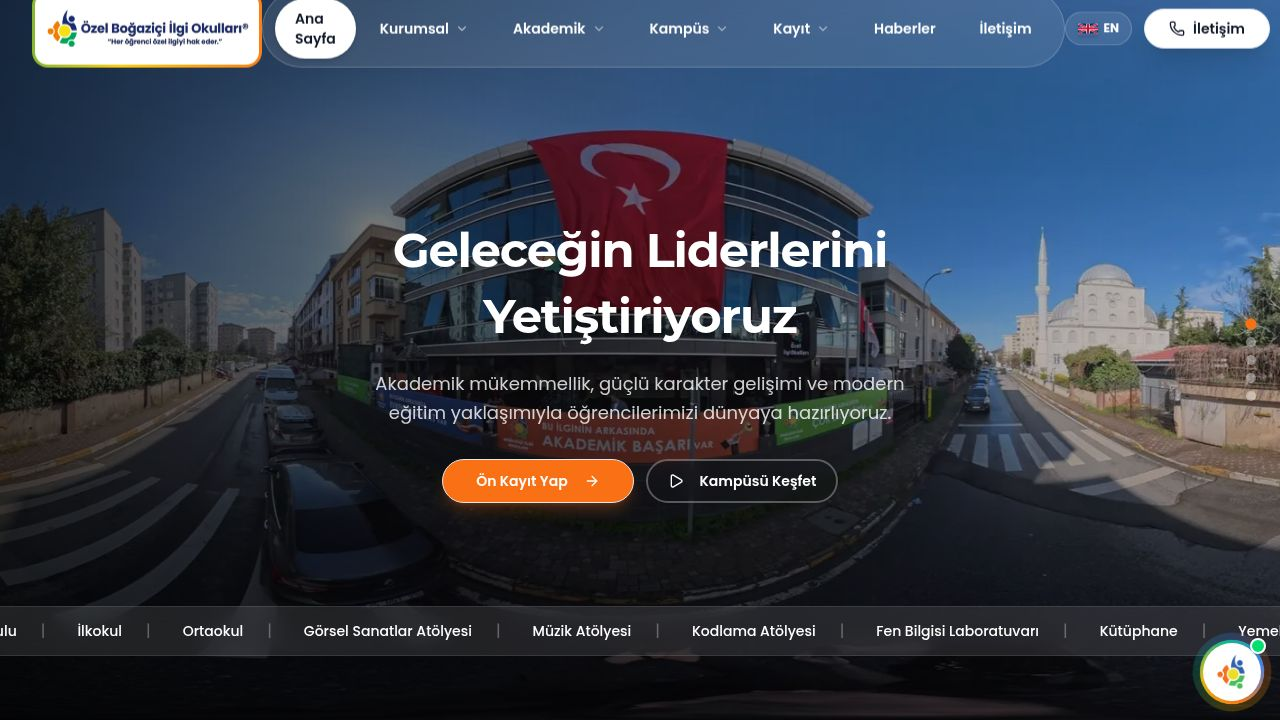
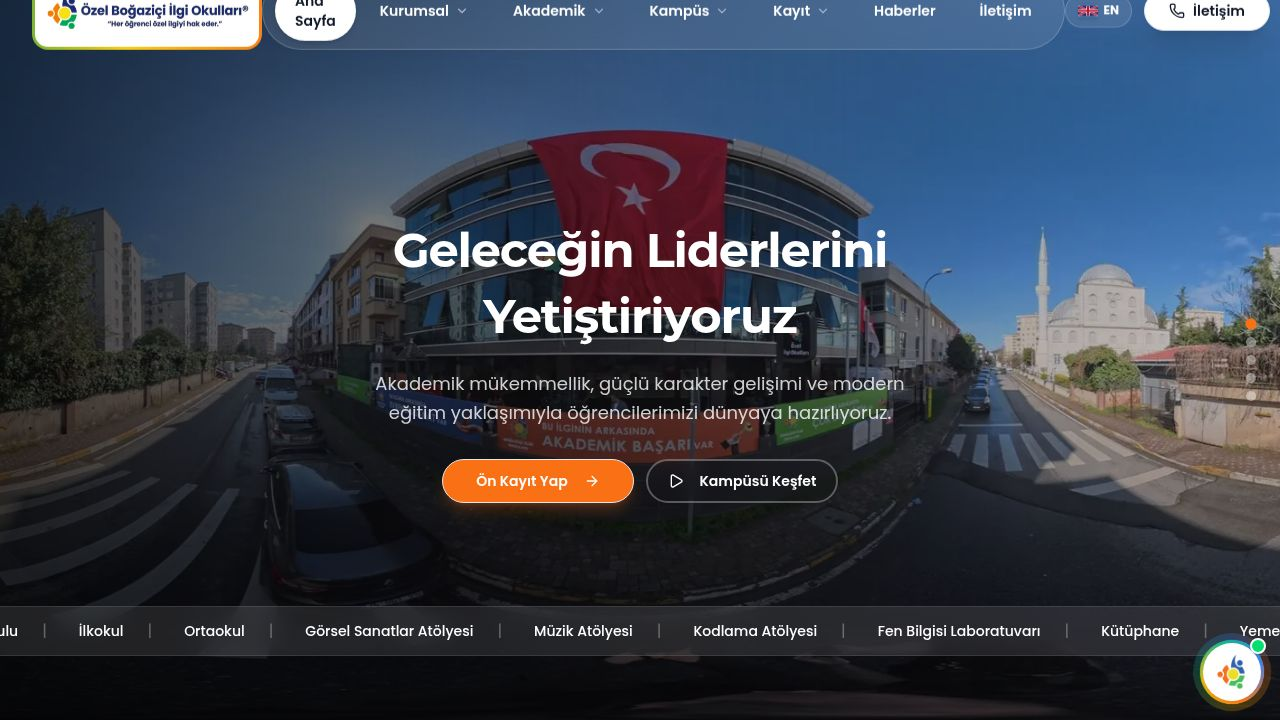
Update website domain and SEO configurations to a new address
Update the SITE_URL constant, sitemap, robots.txt, and chatbot knowledge base to reflect the new domain `cekmekoy.ozelbogaziciilgiokullari.k12.tr`.

Replit-Commit-Author: Agent
Replit-Commit-Session-Id: 3783ef15-8f9c-4e93-8a8d-396c8dbcf819
Replit-Commit-Checkpoint-Type: full_checkpoint
Replit-Commit-Event-Id: 1622ee46-8238-45d4-b25e-ea63c5af9add
Replit-Commit-Screenshot-Url: https://storage.googleapis.com/screenshot-production-us-central1/f2dd929c-e32b-4df0-9b21-eec877623533/3783ef15-8f9c-4e93-8a8d-396c8dbcf819/23JG8lL
Replit-Helium-Checkpoint-Created: true

diff --git a/client/index.html b/client/index.html
@@ -20,8 +20,8 @@
     <meta property="og:title" content="Özel Boğaziçi İlgi Koleji Çekmeköy | Anaokulu, İlkokul ve Ortaokul" />
     <meta property="og:description" content="Çekmeköy'de özel okul arıyorsanız doğru adrestesiniz! Boğaziçi İlgi Koleji'nde anaokulu, ilkokul ve ortaokul kademelerinde 25 yıllık deneyimle kaliteli eğitim." />
     <meta property="og:type" content="website" />
-    <meta property="og:url" content="https://bogazici.toov.com.tr" />
-    <meta property="og:image" content="https://bogazici.toov.com.tr/images/og-share.png" />
+    <meta property="og:url" content="https://cekmekoy.ozelbogaziciilgiokullari.k12.tr" />
+    <meta property="og:image" content="https://cekmekoy.ozelbogaziciilgiokullari.k12.tr/images/og-share.png" />
     <meta property="og:image:width" content="1200" />
     <meta property="og:image:height" content="630" />
     <meta property="og:locale" content="tr_TR" />
@@ -30,7 +30,7 @@
     <meta name="twitter:site" content="@ozelilgiokullari" />
     <meta name="twitter:title" content="Özel Boğaziçi İlgi Koleji Çekmeköy | Anaokulu, İlkokul ve Ortaokul" />
     <meta name="twitter:description" content="Çekmeköy'de anaokulu, ilkokul ve ortaokul. Her öğrenciye özel ilgi, modern eğitim, zengin kampüs imkanları." />
-    <meta name="twitter:image" content="https://bogazici.toov.com.tr/images/og-share.png" />
+    <meta name="twitter:image" content="https://cekmekoy.ozelbogaziciilgiokullari.k12.tr/images/og-share.png" />
     
     <link rel="icon" type="image/png" href="/favicon.png" />
     

diff --git a/server/chatbot.ts b/server/chatbot.ts
@@ -12,7 +12,7 @@ const KNOWLEDGE_BASE = `
 - Telefon: 0216 642 8 642
 - E-posta: info@ozelilgiokullari.k12.tr
 - Adres: Mimar Sinan, Yeşil Kayalar Cd. No: 46 - 48, 34782 Çekmeköy/İstanbul
-- Web Sitesi: bogazici.toov.com.tr
+- Web Sitesi: cekmekoy.ozelbogaziciilgiokullari.k12.tr
 
 ## Hakkımızda
 - Kampüs 2013 yılında inşa edilmiş modern bir yapıdır

diff --git a/client/src/components/SEOHead.tsx b/client/src/components/SEOHead.tsx
@@ -1,7 +1,7 @@
 import { Helmet } from "react-helmet-async";
 import { useLanguage } from "@/lib/i18n";
 
-const SITE_URL = "https://bogazici.toov.com.tr";
+const SITE_URL = "https://cekmekoy.ozelbogaziciilgiokullari.k12.tr";
 const OG_IMAGE = `${SITE_URL}/images/og-share.png`;
 const SCHOOL_NAME = "Özel Boğaziçi İlgi Koleji Çekmeköy";
 

diff --git a/replit.md b/replit.md
@@ -148,6 +148,10 @@ Preferred communication style: Simple, everyday language.
 
 ## SEO Infrastructure
 
+### Domain
+- **Production URL**: `https://cekmekoy.ozelbogaziciilgiokullari.k12.tr`
+- All canonical URLs, OG tags, sitemap, robots.txt, JSON-LD and chatbot knowledge base reference this domain
+
 ### Package & Components
 - **Package**: `react-helmet-async` (HelmetProvider wraps app in App.tsx)
 - **Component**: `client/src/components/SEOHead.tsx` — accepts `titleTR`, `titleEN`, `descriptionTR`, `descriptionEN`, `canonical`, optional `jsonLd`
